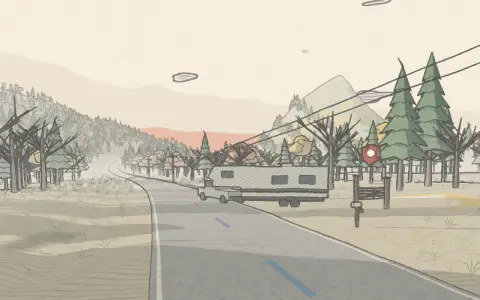
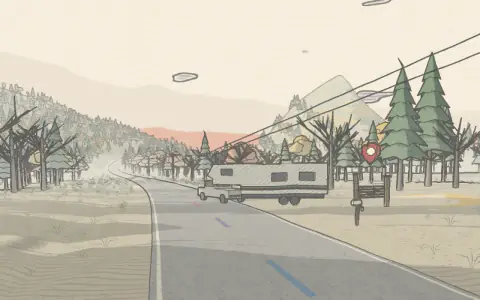
/road: the rig stays on the road, the truck runs on gas. Wear: apparel is coming soon
Chad's last fixes for /road, and the wear wording.

The rig sank into the road. The truck and the camper were drawn level at
the height of the road under the truck's middle, so on a hill the camper,
seven metres back, hung over the road going up and dipped into it going
down, by up to half a metre. Now both are set down on their wheels
(settle() in road/roadworld.js): the truck on its two axles, the camper
on its own axles and on the hitch in the truck's bed, so they tip with
the road. The ground beside the road is level with it from the edge out,
and there is a wide level patch wherever the rig stops, so pulling over
has no step in it either.

Checked with a new script (tools/rigcheck.mjs in the notes folder): the
whole drive in 5,000 steps, every wheel against the road and ground that
are drawn, at all three quality settings. Worst is 2.6 cm into the
surface.

- "fuel" and "diesel" are "gas": the stop's name, its address, its card.
- Wear: no apparel is listed yet, so the wear stop, the wear page and
  the about page say it is coming soon.
- The winter stop's main button is "watch the latest vlog" (the same
  ROAD_LATEST link as the vlog stop), with a smaller "subscribe on
  youtube" button under it.
- The camera comes across the road to the gate a little later at the
  end of the drive, so no pole passes close to it.
- Six still prints re-shot.

Not pushed.

diff --git a/road/roadworld.js b/road/roadworld.js
@@ -10,9 +10,9 @@ import * as shapes from "./shapes.js";
 import * as walkShapes from "../walk/mesh.js";
 import { INK } from "../walk/glsl.js";
 import { lightAt, MOON_DIR } from "./light.js";
-import { Printer, NEAR, FAR, rotY, local, angLerp } from "../walk/print.js";
+import { Printer, NEAR, FAR, rotY, local, angLerp, mTurnZ } from "../walk/print.js";
 
-export const STOP_IDS = ["leave", "vlog", "follow", "fuel", "winter", "home"];
+export const STOP_IDS = ["leave", "vlog", "follow", "gas", "winter", "home"];
 const P = land.PLACES, RZ = land.RIG_Z, LAST = STOP_IDS.length - 1;
 const SCREEN = 4, POST = 1.8, PUMP = 1.5, CUP = 1.25;       // how much bigger than life the roadside things are
 const HITCH = -1.7, NOSE = 3.65, AXLE = 5.4;                // the truck's bed (where the fifth wheel sits), the camper's nose, nose to axles
@@ -37,7 +37,7 @@ const VIEWS = [
   { look: [3, 6.4, 2.1], shift: [0.12, -0.2], shiftN: [0, -0.4] },                          // leaving: the rig swinging out of the gate
   { look: [3, 9.5, 6.4], lookN: [3, 10.5, 7.2], shift: [0.22, 0.04], shiftN: [0, 0.36] },   // the latest vlog: the rig under the big screen
   { look: [3, 5.6, 3.0], shift: [0.24, 0], shiftN: [0, 0.38] },                             // follow along: pulled up at the signpost
-  { look: [4.5, 7.6, 3.2], shift: [0.22, 0], shiftN: [0, 0.38] },                           // fuel: at the pump, under the cup
+  { look: [4.5, 7.6, 3.2], shift: [0.22, 0], shiftN: [0, 0.38] },                           // gas: at the pump, under the cup
   { look: [5.5, 10.75, 2.6], shift: [0.25, -0.04], shiftN: [0, 0.36] },                     // winter: camped by the water
   { look: [-1.5, 6.5, 2.2], shift: [0.22, -0.04], shiftN: [0, 0.34] },                      // home: turning back in at the gate
 ].map((v, k) => ({ ...v, cam: land.CAM[k] }));
@@ -53,8 +53,9 @@ function lane(z, dir, off = 0) {
   const hitch = local({ x: p[0], y: p[1], z: p[2], yaw }, [HITCH, 0, 0]), ax = onRoad(z + (AXLE - HITCH) * dir, d);
   return { x: p[0], y: p[1], z: p[2], yaw, cyaw: Math.atan2(-(hitch[2] - ax[2]), hitch[0] - ax[0]), park: 0 };
 }
-/** where the truck is and which way it and the fifth wheel point, at stop-progress u: { x, y, z, yaw, cyaw, park } */
-function rigAt(u) {
+/** where the truck is and which way it and the fifth wheel point, at stop-progress u: { x, y, z, yaw, cyaw, park }.
+    (y is only roughly the ground there. settle() is what sets the rig down on its wheels.) */
+export function rigAt(u) {
   if (u <= 4) {
     // heading south. it eases away from each stop and up to the next, and pulls over where it stops
     const k = Math.min(Math.floor(u), 3), r = lane(lerp(RZ[k], RZ[k + 1], ease(u - k)), 1);
@@ -84,6 +85,27 @@ function rigAt(u) {
   const yaw = from.yaw + Math.min(s, run) / R_GATE, on = arc([from.x, from.z], from.yaw, yaw, R_GATE), past = Math.max(s - run, 0);
   const x = on[0] + Math.cos(yaw) * past, z = on[1] - Math.sin(yaw) * past;
   return { x, y: land.height(x, z) + 0.05, z, yaw, cyaw: yaw - 0.8 * smooth(0, 0.45, g) * (1 - 0.22 * smooth(0.7, 1, g)), park: smooth(0.7, 1, g) };
+}
+
+/* ---------- setting the rig down on the road ---------- */
+const FRONT = 1.85, REAR = -1.9;                 // the truck's axles, ahead of and behind its middle (walk/mesh.js truck())
+const AXLES = 1.725, BACK = NOSE + AXLES;        // the camper's axles behind its own middle, and behind the hitch (walk/mesh.js camper())
+/** how high the surface is under a wheel at [x, z]: the road's own ribbon where the wheel is on the road, the ground where it is off it */
+export function surface(x, z) {
+  const d = land.lateral(x, z), off = smooth(land.HALF, land.HALF + 0.35, Math.abs(d));
+  return lerp(land.roadY(z - land.heading(z)[0] * d) + 0.07, land.height(x, z) + 0.01, off);
+}
+/** the rig, set down on its wheels: the truck on its two axles, the fifth wheel on its own axles and on the hitch in the truck's bed.
+    so on a hill both of them tip with the road, and neither one sinks into it or hangs over it. each is [x, y, z, yaw, tip]. */
+export function settle(rig) {
+  // an axle sits on whichever of its two wheels is on the higher ground (one can be on the road and the other on the shoulder)
+  const axle = (x, z, yaw, half) => { const sx = Math.sin(yaw) * half, sz = Math.cos(yaw) * half; return Math.max(surface(x + sx, z + sz), surface(x - sx, z - sz)); };
+  const F = [Math.cos(rig.yaw), -Math.sin(rig.yaw)];
+  const yF = axle(rig.x + F[0] * FRONT, rig.z + F[1] * FRONT, rig.yaw, 0.9), yR = axle(rig.x + F[0] * REAR, rig.z + F[1] * REAR, rig.yaw, 0.9);
+  const tip = Math.atan2(yF - yR, FRONT - REAR), y = yR + (yF - yR) * (-REAR / (FRONT - REAR));
+  const hx = rig.x + F[0] * HITCH, hz = rig.z + F[1] * HITCH, hy = y + HITCH * Math.sin(tip);            // the hitch rides up and down with the truck's bed
+  const C = [Math.cos(rig.cyaw), -Math.sin(rig.cyaw)], ya = axle(hx - C[0] * BACK, hz - C[1] * BACK, rig.cyaw, 1.13);
+  return { truck: [rig.x, y, rig.z, rig.yaw, tip], camper: [hx - C[0] * NOSE, ya + (hy - ya) * (AXLES / BACK), hz - C[1] * NOSE, rig.cyaw, Math.atan2(hy - ya, BACK)] };
 }
 
 export class RoadWorld extends Printer {
@@ -184,8 +206,8 @@ export class RoadWorld extends Printer {
     u = clamp(u, 0, LAST);
     const rig = (this.rig = rigAt(u)), n = Math.round(u), V = VIEWS[n], C = u > 4 ? CHASE_N : CHASE_S;
     // how much this is the stop's own view: 1 at the stop, 0 out on the road. leaving the camp it lets go fast, to get round
-    // behind the rig before the rig has turned round
-    const w = u > 4 && n === 4 ? 1 - smooth(0.015, TURN, u - 4) : 1 - smooth(0.06, 0.4, Math.abs(u - n));
+    // behind the rig before the rig has turned round. and it comes across the road to the gate late, once it is past the poles
+    const w = u > 4 && n === 4 ? 1 - smooth(0.015, TURN, u - 4) : n === 5 ? 1 - smooth(0.03, 0.2, 5 - u) : 1 - smooth(0.06, 0.4, Math.abs(u - n));
     const narrow = 1 - smooth(0.8, 1.25, aspect);
     const mix = (a, b) => [lerp(a[0], b[0], w), lerp(a[1], b[1], w), lerp(a[2], b[2], w)];
     const cm = mix(C.cam, V.cam), lk = mix(C.look, V.lookN && narrow > 0 ? v3.lerp(V.look, V.lookN, narrow) : V.look);
@@ -207,15 +229,14 @@ export class RoadWorld extends Printer {
   animate(u, time, L, dt, still) {
     const rig = this.rig, cam = this.cam;
     this.at = u;
-    // the fifth wheel hangs off the hitch in the truck's bed
-    const hitch = local({ x: rig.x, y: rig.y, z: rig.z, yaw: rig.yaw }, [HITCH, 0, 0]);
-    const cpos = [hitch[0] - Math.cos(rig.cyaw) * NOSE, rig.y, hitch[2] + Math.sin(rig.cyaw) * NOSE];
+    // both of them are set down on their wheels, so they tip with the road on the hills
+    const { truck: T, camper: K } = settle(rig), cpos = [K[0], K[1], K[2]];
     const bump = still ? 0 : Math.sin(time * 7.1) * 0.012 * (1 - rig.park) * smooth(0, 0.08, Math.abs(Math.sin(Math.PI * cam.f)))      // a little life in the springs while it rolls
                              + this.honk * Math.abs(Math.sin(time * 15)) * 0.24;                                                  // and a hop when you press it
-    rotY(this.truck.model, rig.x, rig.y + bump, rig.z, rig.yaw, 1);
-    rotY(this.camper.model, cpos[0], cpos[1] - 0.1 + bump * 0.6, cpos[2], rig.cyaw, 1);
+    mTurnZ(rotY(this.truck.model, T[0], T[1] + bump, T[2], T[3], 1), T[4]);
+    mTurnZ(rotY(this.camper.model, K[0], K[1] + bump * 0.6, K[2], K[3], 1), K[4]);
     this.trim.model.set(this.camper.model);
-    this.beam = [rig.x + Math.cos(rig.yaw) * 8, rig.y + 0.6, rig.z - Math.sin(rig.yaw) * 8];       // where the headlights land
+    this.beam = [rig.x + Math.cos(rig.yaw) * 8, T[1] + 0.6, rig.z - Math.sin(rig.yaw) * 8];        // where the headlights land
     this.hot.rig = [cpos[0], cpos[1] + 3.2, cpos[2]];
     this.hot.cup = spot("cup", 5.9 * CUP);
     this.hot.post = spot("signpost", 2.4 * POST);

diff --git a/wear/index.html b/wear/index.html
@@ -3,16 +3,16 @@
 <head>
 <meta charset="UTF-8">
 <meta name="viewport" content="width=device-width, initial-scale=1.0, viewport-fit=cover">
-<title>Wear: Handmade Jewelry + Apparel | Same Old Samsara</title>
-<meta name="description" content="Handmade beaded earrings and bracelets, and apparel we designed, by Same Old Samsara. Each piece is sold through our Etsy shop.">
+<title>Wear: Handmade Jewelry | Same Old Samsara</title>
+<meta name="description" content="Handmade beaded earrings and bracelets by Same Old Samsara. Each piece is sold through our Etsy shop. Apparel we designed is coming soon.">
 <meta name="robots" content="index, follow, max-image-preview:large">
 <meta name="google-site-verification" content="y7ndACI0Ppc_jZEAmxNFMrK5n-c8N7hskw8efVKoxJQ">
 <link rel="canonical" href="https://sameoldsamsara.xyz/wear/">
 <meta name="theme-color" content="#4f5232">
 <meta property="og:type" content="website">
 <meta property="og:site_name" content="Same Old Samsara">
-<meta property="og:title" content="Wear: Handmade Jewelry + Apparel | Same Old Samsara">
-<meta property="og:description" content="Handmade beaded earrings and bracelets, and apparel we designed, by Same Old Samsara. Each piece is sold through our Etsy shop.">
+<meta property="og:title" content="Wear: Handmade Jewelry | Same Old Samsara">
+<meta property="og:description" content="Handmade beaded earrings and bracelets by Same Old Samsara. Each piece is sold through our Etsy shop. Apparel we designed is coming soon.">
 <meta property="og:url" content="https://sameoldsamsara.xyz/wear/">
 <meta property="og:image" content="https://sameoldsamsara.xyz/images/shop/opossum.jpg">
 <meta name="twitter:card" content="summary_large_image">
@@ -28,7 +28,7 @@
 <link rel="stylesheet" href="../style.css?v=858d8099">
 <script>var R=document.documentElement;R.classList.add("js");setTimeout(function(){if(!window.SOS_READY)R.classList.remove("js");},3000);try{var t=localStorage.getItem("sos_theme");if(t==="night"||t==="day")R.dataset.theme=t;}catch(_){}var U=navigator.userAgent,A=/Instagram/.test(U)?"instagram":/FBAN|FBAV/.test(U)?"facebook":/musical_ly|Bytedance|TikTok/i.test(U)?"tiktok":/Pinterest/.test(U)?"pinterest":"";if(A)R.dataset.app=A;if(A==="pinterest"||/pinterest\./i.test(document.referrer))R.dataset.from="pin";</script>
 <style>:root{--ring-url:url("../images/ring-norules-pepper.svg");--mark-url:url("../images/mark-pepper.svg");}</style>
-<script type="application/ld+json">{"@context": "https://schema.org", "@type": "CollectionPage", "name": "Handmade jewelry and apparel by Same Old Samsara", "url": "https://sameoldsamsara.xyz/wear/", "isPartOf": {"@type": "WebSite", "name": "Same Old Samsara", "url": "https://sameoldsamsara.xyz/"}, "mainEntity": {"@type": "ItemList", "itemListElement": [{"@type": "ListItem", "position": 1, "name": "opossum earrings", "url": "https://www.etsy.com/listing/4448169054"}, {"@type": "ListItem", "position": 2, "name": "jellyfish earrings", "url": "https://www.etsy.com/listing/4448186827"}, {"@type": "ListItem", "position": 3, "name": "cream + olive fringe", "url": "https://www.etsy.com/listing/4426089724"}, {"@type": "ListItem", "position": 4, "name": "green stone + hex nut bracelet", "url": "https://www.etsy.com/listing/4448132656"}, {"@type": "ListItem", "position": 5, "name": "squid earrings", "url": "https://www.etsy.com/listing/4446242488"}, {"@type": "ListItem", "position": 6, "name": "rainbow fringe earrings", "url": "https://www.etsy.com/listing/4441796123"}, {"@type": "ListItem", "position": 7, "name": "alien head earrings", "url": "https://www.etsy.com/listing/4446213329"}, {"@type": "ListItem", "position": 8, "name": "monstera leaf huggies", "url": "https://www.etsy.com/listing/4438493438"}, {"@type": "ListItem", "position": 9, "name": "key huggie", "url": "https://www.etsy.com/listing/4440654558"}, {"@type": "ListItem", "position": 10, "name": "cream spiral rope bracelet", "url": "https://www.etsy.com/listing/4445038667"}, {"@type": "ListItem", "position": 11, "name": "wavy rainbow loom bracelet", "url": "https://www.etsy.com/listing/1698489768"}, {"@type": "ListItem", "position": 12, "name": "matte black bracelet", "url": "https://www.etsy.com/listing/4444516925"}]}}</script>
+<script type="application/ld+json">{"@context": "https://schema.org", "@type": "CollectionPage", "name": "Handmade jewelry by Same Old Samsara", "url": "https://sameoldsamsara.xyz/wear/", "isPartOf": {"@type": "WebSite", "name": "Same Old Samsara", "url": "https://sameoldsamsara.xyz/"}, "mainEntity": {"@type": "ItemList", "itemListElement": [{"@type": "ListItem", "position": 1, "name": "opossum earrings", "url": "https://www.etsy.com/listing/4448169054"}, {"@type": "ListItem", "position": 2, "name": "jellyfish earrings", "url": "https://www.etsy.com/listing/4448186827"}, {"@type": "ListItem", "position": 3, "name": "cream + olive fringe", "url": "https://www.etsy.com/listing/4426089724"}, {"@type": "ListItem", "position": 4, "name": "green stone + hex nut bracelet", "url": "https://www.etsy.com/listing/4448132656"}, {"@type": "ListItem", "position": 5, "name": "squid earrings", "url": "https://www.etsy.com/listing/4446242488"}, {"@type": "ListItem", "position": 6, "name": "rainbow fringe earrings", "url": "https://www.etsy.com/listing/4441796123"}, {"@type": "ListItem", "position": 7, "name": "alien head earrings", "url": "https://www.etsy.com/listing/4446213329"}, {"@type": "ListItem", "position": 8, "name": "monstera leaf huggies", "url": "https://www.etsy.com/listing/4438493438"}, {"@type": "ListItem", "position": 9, "name": "key huggie", "url": "https://www.etsy.com/listing/4440654558"}, {"@type": "ListItem", "position": 10, "name": "cream spiral rope bracelet", "url": "https://www.etsy.com/listing/4445038667"}, {"@type": "ListItem", "position": 11, "name": "wavy rainbow loom bracelet", "url": "https://www.etsy.com/listing/1698489768"}, {"@type": "ListItem", "position": 12, "name": "matte black bracelet", "url": "https://www.etsy.com/listing/4444516925"}]}}</script>
 </head>
 <body>
 <a class="skip" href="#main">skip to the good part</a>
@@ -38,8 +38,8 @@
   <button class="sky" type="button" aria-label="switch day or night" title="day or night"><span class="sun" aria-hidden="true"></span></button>
 </div></header>
 <main id="main"><section class="hero small"><div class="wrap hero-text">
-  <h1>wear</h1><p class="tag">jewelry made by hand, and apparel we designed.</p>
-  <p class="def">Earrings and bracelets Chad makes by hand, most of them one seed bead at a time, and apparel we designed. It all lives in our Etsy shop, where the prices, the sizes and the checkout are.</p>
+  <h1>wear</h1><p class="tag">jewelry made by hand. apparel coming soon.</p>
+  <p class="def">Earrings and bracelets Chad makes by hand, most of them one seed bead at a time. They live in our Etsy shop, where the prices, the sizes and the checkout are. Apparel we designed is coming soon.</p>
   <div class="btns center"><a class="btn solid" href="https://sameoldsamsara.etsy.com" target="_blank" rel="noopener">our etsy shop</a><a class="btn" href="https://depop.com/sameoldsamsara" target="_blank" rel="noopener">also on depop</a></div>
   <p class="label inapp">inside an app? youtube and etsy work better in your own browser. tap the ⋯ menu, then "open in browser".</p>
 </div></section>

diff --git a/road/index.html b/road/index.html
@@ -19,7 +19,7 @@
 <link rel="preconnect" href="https://fonts.googleapis.com">
 <link rel="preconnect" href="https://fonts.gstatic.com" crossorigin>
 <link rel="stylesheet" href="https://fonts.googleapis.com/css2?family=Press+Start+2P&family=VT323&family=Work+Sans:wght@400;500;600&display=swap">
-<link rel="stylesheet" href="../road/road.css?v=f9225bab">
+<link rel="stylesheet" href="../road/road.css?v=adfc7046">
 <script>(function(){var d=document.documentElement,q=location.search,gl=false,calm=false;try{gl=!!document.createElement("canvas").getContext("webgl2");calm=matchMedia("(prefers-reduced-motion: reduce)").matches;}catch(_){}var on=gl&&!/[?&]plain\b/.test(q)&&(!calm||/[?&]walk\b/.test(q));d.classList.add(on?"walk-on":"walk-plain");if(gl&&!on)d.classList.add("walk-can");if(on)setTimeout(function(){if(!window.SOS_WALK){d.classList.remove("walk-on");d.classList.add("walk-plain");}},8000);})();</script>
 <script type="application/ld+json">{"@context": "https://schema.org", "@type": "WebPage", "name": "Pneuma Nomads", "url": "https://sameoldsamsara.xyz/road/", "description": "Chad and Daniel's winter travel videos. Summers on our land in Central New York, winters in the fifth wheel following the warm air south.", "isPartOf": {"@type": "WebSite", "name": "Same Old Samsara", "url": "https://sameoldsamsara.xyz/"}, "sameAs": ["https://youtube.com/@pneumanomads", "https://instagram.com/pneumanomads", "https://tiktok.com/@pneumanomads"]}</script>
 </head>
@@ -34,7 +34,7 @@
 <nav class="trail" aria-label="stops on the road"><div class="trail-in">
   <ol id="trail-list">
     <li><a href="#walk" data-go="0"><i aria-hidden="true"></i><span>leaving</span></a></li>
-    <li><a href="#stop-vlog" data-go="1"><i aria-hidden="true"></i><span>the latest vlog</span></a></li><li><a href="#stop-follow" data-go="2"><i aria-hidden="true"></i><span>follow along</span></a></li><li><a href="#stop-fuel" data-go="3"><i aria-hidden="true"></i><span>fuel</span></a></li><li><a href="#stop-winter" data-go="4"><i aria-hidden="true"></i><span>winter</span></a></li><li><a href="#stop-home" data-go="5"><i aria-hidden="true"></i><span>home again</span></a></li>
+    <li><a href="#stop-vlog" data-go="1"><i aria-hidden="true"></i><span>the latest vlog</span></a></li><li><a href="#stop-follow" data-go="2"><i aria-hidden="true"></i><span>follow along</span></a></li><li><a href="#stop-gas" data-go="3"><i aria-hidden="true"></i><span>gas</span></a></li><li><a href="#stop-winter" data-go="4"><i aria-hidden="true"></i><span>winter</span></a></li><li><a href="#stop-home" data-go="5"><i aria-hidden="true"></i><span>home again</span></a></li>
   </ol>
 </div></nav>
 <div class="walk-view">
@@ -86,13 +86,13 @@
       </div>
     </div>
   </article>
-  <article class="stop left" id="stop-fuel" data-stop="3">
-    <picture><source type="image/webp" media="(max-width: 760px)" srcset="../images/r/road/3-fuel-480.webp 480w, ../images/r/road/3-fuel-600.webp 600w" sizes="330px"><source type="image/webp" srcset="../images/r/road/3-fuel-720.webp 720w, ../images/road/3-fuel.webp 1280w" sizes="620px"><img class="still" src="../images/road/3-fuel.webp" alt="A print of the truck and camper pulled in at an old red gas pump with a lit globe, under a giant coffee cup on a pole, with the afternoon sun behind them." width="1280" height="800" loading="lazy" decoding="async"></picture>
+  <article class="stop left" id="stop-gas" data-stop="3">
+    <picture><source type="image/webp" media="(max-width: 760px)" srcset="../images/r/road/3-gas-480.webp 480w, ../images/r/road/3-gas-600.webp 600w" sizes="330px"><source type="image/webp" srcset="../images/r/road/3-gas-720.webp 720w, ../images/road/3-gas.webp 1280w" sizes="620px"><img class="still" src="../images/road/3-gas.webp" alt="A print of the truck and camper pulled in at an old red gas pump with a lit globe, under a giant coffee cup on a pole, with the afternoon sun behind them." width="1280" height="800" loading="lazy" decoding="async"></picture>
     <div class="card">
       <div class="bar"><span>log 3 of 5</span><span>last gas · afternoon</span></div>
       <div class="in">
-        <h2>fuel</h2>
-        <p>The truck runs on diesel. We run on coffee. If the videos are worth a cup to you, here's the jar.</p>
+        <h2>gas</h2>
+        <p>The truck runs on gas. We run on coffee. If the videos are worth a cup to you, here's the jar.</p>
         <div class="btns"><a class="btn solid" href="https://buymeacoffee.com/sameoldsamsara" target="_blank" rel="noopener">buy us a coffee</a></div>
       </div>
     </div>
@@ -104,7 +104,7 @@
       <div class="in">
         <h2>winter</h2>
         <p>This is the warm air we were following. We park by the water, film all winter and post as we go.</p>
-        <div class="btns"><a class="btn solid" href="https://youtube.com/@pneumanomads?sub_confirmation=1" target="_blank" rel="noopener">subscribe on youtube</a></div>
+        <div class="btns stack"><a class="btn solid" href="https://www.youtube.com/watch?v=NMxLh7pHhDY" target="_blank" rel="noopener">watch the latest vlog</a><a class="btn small" href="https://youtube.com/@pneumanomads?sub_confirmation=1" target="_blank" rel="noopener">subscribe on youtube</a></div>
       </div>
     </div>
   </article>

diff --git a/road/land.js b/road/land.js
@@ -62,7 +62,11 @@ export const PLACES = {
   north: [5.8, -1634],         // the sign that points back up the road
 };
 const ROOM = { screen: 12 };                                               // how far the trees stand back from a thing (7.5 if not said)
-const PADS = Object.entries(PLACES).map(([name, [d, z]]) => [...beside(z, d), d, z, ROOM[name] || 7.5]);
+/* a patch of ground at the road's own level under each thing: [x, z, d, z, how far the trees stand back, level out to here, back to the country by here] */
+const PADS = Object.entries(PLACES).map(([name, [d, z]]) => [...beside(z, d), d, z, ROOM[name] || 7.5, 4.5, 9]);
+/* and a wide one under the whole rig wherever it stops, centred on its middle, so every wheel is on level ground while it pulls in and out */
+/* (the one at the camp is wider still: the rig swings right round on the sand there) */
+for (const [d, z, r = 9.5] of [[6, -48], by(1, -4, 5.6), by(2, -4, 5.4), by(3, -4, 7.6), [8.5, RIG_Z[4] - 1, 12.5], [5.5, -46]]) PADS.push([...beside(z, d), d, z, 0, r, r + 5]);
 const segDist = (x, z, ax, az, bx, bz) => { const dx = bx - ax, dz = bz - az, t = clamp(((x - ax) * dx + (z - az) * dz) / (dx * dx + dz * dz), 0, 1); return Math.hypot(x - ax - dx * t, z - az - dz * t); };
 /* nothing is planted between where you stand at a stop and what you look at there: [stop, place, how wide a lane to keep clear] */
 const SIGHT = [[0, "park0", 7], [0, "gate", 6], [1, "screen", 10], [1, "park1", 6], [2, "signpost", 6], [2, "park2", 6], [3, "cup", 7], [3, "pump", 5], [3, "park3", 6],
@@ -90,17 +94,21 @@ function raw(x, z) {
   const gulf = d > 0 ? -smooth(9, 30, d) * (ry - WATER_Y + 1.6) + roll * 0.8 * off * (1 - smooth(9, 22, d))
                      : roll * 3.2 * off + 2.2 * smooth(30, 90, a) * far;
   let h = ry + north * w[0] + hills * w[1] + pines * w[2] + gulf * w[3];
-  h -= 0.42 * smooth(4.4, 6.4, a) * (1 - smooth(6.4, 10.5, a)) * (1 - w[3] * (d > 0 ? 1 : 0));       // a shallow ditch off each shoulder
+  if (d < 0) h -= 0.42 * smooth(4.4, 6.4, a) * (1 - smooth(6.4, 10.5, a));       // a shallow ditch off the left shoulder. the right one is kept level: the rig pulls over onto it
   return h;
 }
-/** the finished ground: the country, with the road benched into it and a level patch under each thing that stands by it */
+/** the finished ground: the country, with the road benched into it and a patch at the road's own level under each thing that
+    stands by it. "the road's level" is its height straight across from the spot, so the shoulder and the patches rise and fall
+    with the road. under the road the ground is a little below the road's surface, and from the edge out it comes up flush with it,
+    so there is no step for the rig to drop off when it pulls over (road/roadworld.js surface() counts on this). */
 export function height(x, z) {
   let h = raw(x, z);
-  const a = Math.abs(lateral(x, z));
-  if (a < 6.5) h = lerp(roadY(z), h, smooth(HALF + 0.5, 6.5, a));
+  const d = lateral(x, z), a = Math.abs(d), flush = roadY(z - heading(z)[0] * d) + 0.06 * smooth(HALF, 5.4, a);
+  // the shoulder. the right one is wide: that is the side the rig pulls over onto
+  h = lerp(flush, h, d > 0 ? smooth(6, 9, a) : smooth(HALF + 0.5, 6.5, a));
   for (const p of PADS) {
     const dd = Math.hypot(x - p[0], z - p[1]);
-    if (dd < 9) h = lerp(roadY(p[3]) - 0.05, h, smooth(4.5, 9, dd));
+    if (dd < p[6]) h = lerp(flush, h, smooth(p[5], p[6], dd));
   }
   return h;
 }

diff --git a/ig/index.html b/ig/index.html
@@ -96,7 +96,7 @@
     <div class="card"><span class="was" id="wear"></span>
       <p class="label where"><span>stop 3 of 8</span><span class="light">noon</span></p>
       <h2>wear</h2>
-      <p>We have an Etsy shop with the jewelry we make by hand and the apparel we designed. The earrings don't really grow on the apple tree. We checked.</p>
+      <p>We have an Etsy shop with the jewelry we make by hand. Apparel we designed is coming soon. The earrings don't really grow on the apple tree. We checked.</p>
       <div class="wear-row"><a href="https://www.etsy.com/listing/4448169054" target="_blank" rel="noopener" title="opossum earrings"><picture><source type="image/webp" srcset="../images/r/shop/opossum-240.webp 240w" sizes="(max-width: 760px) 84px, 84px"><img src="../images/shop/opossum.jpg" alt="opossum earrings" width="600" height="600" loading="lazy" decoding="async"></picture></a><a href="https://www.etsy.com/listing/4448186827" target="_blank" rel="noopener" title="jellyfish earrings"><picture><source type="image/webp" srcset="../images/r/shop/jellyfish-240.webp 240w" sizes="(max-width: 760px) 84px, 84px"><img src="../images/shop/jellyfish.jpg" alt="jellyfish earrings" width="600" height="600" loading="lazy" decoding="async"></picture></a><a href="https://www.etsy.com/listing/4426089724" target="_blank" rel="noopener" title="cream + olive fringe"><picture><source type="image/webp" srcset="../images/r/shop/cream-olive-240.webp 240w" sizes="(max-width: 760px) 84px, 84px"><img src="../images/shop/cream-olive.jpg" alt="cream + olive fringe" width="600" height="600" loading="lazy" decoding="async"></picture></a><a href="https://www.etsy.com/listing/4448132656" target="_blank" rel="noopener" title="green stone + hex nut bracelet"><picture><source type="image/webp" srcset="../images/r/shop/green-stone-240.webp 240w" sizes="(max-width: 760px) 84px, 84px"><img src="../images/shop/green-stone.jpg" alt="green stone + hex nut bracelet" width="600" height="600" loading="lazy" decoding="async"></picture></a></div>
       <div class="btns"><a class="btn solid" href="../wear/">see the jewelry</a><a class="btn" href="https://sameoldsamsara.etsy.com" target="_blank" rel="noopener">our etsy shop</a><a class="btn" href="https://depop.com/sameoldsamsara" target="_blank" rel="noopener">also on depop</a></div>
     </div>

diff --git a/pin/index.html b/pin/index.html
@@ -96,7 +96,7 @@
     <div class="card"><span class="was" id="wear"></span>
       <p class="label where"><span>stop 3 of 8</span><span class="light">noon</span></p>
       <h2>wear</h2>
-      <p>We have an Etsy shop with the jewelry we make by hand and the apparel we designed. The earrings don't really grow on the apple tree. We checked.</p>
+      <p>We have an Etsy shop with the jewelry we make by hand. Apparel we designed is coming soon. The earrings don't really grow on the apple tree. We checked.</p>
       <div class="wear-row"><a href="https://www.etsy.com/listing/4448169054" target="_blank" rel="noopener" title="opossum earrings"><picture><source type="image/webp" srcset="../images/r/shop/opossum-240.webp 240w" sizes="(max-width: 760px) 84px, 84px"><img src="../images/shop/opossum.jpg" alt="opossum earrings" width="600" height="600" loading="lazy" decoding="async"></picture></a><a href="https://www.etsy.com/listing/4448186827" target="_blank" rel="noopener" title="jellyfish earrings"><picture><source type="image/webp" srcset="../images/r/shop/jellyfish-240.webp 240w" sizes="(max-width: 760px) 84px, 84px"><img src="../images/shop/jellyfish.jpg" alt="jellyfish earrings" width="600" height="600" loading="lazy" decoding="async"></picture></a><a href="https://www.etsy.com/listing/4426089724" target="_blank" rel="noopener" title="cream + olive fringe"><picture><source type="image/webp" srcset="../images/r/shop/cream-olive-240.webp 240w" sizes="(max-width: 760px) 84px, 84px"><img src="../images/shop/cream-olive.jpg" alt="cream + olive fringe" width="600" height="600" loading="lazy" decoding="async"></picture></a><a href="https://www.etsy.com/listing/4448132656" target="_blank" rel="noopener" title="green stone + hex nut bracelet"><picture><source type="image/webp" srcset="../images/r/shop/green-stone-240.webp 240w" sizes="(max-width: 760px) 84px, 84px"><img src="../images/shop/green-stone.jpg" alt="green stone + hex nut bracelet" width="600" height="600" loading="lazy" decoding="async"></picture></a></div>
       <div class="btns"><a class="btn solid" href="../wear/">see the jewelry</a><a class="btn" href="https://sameoldsamsara.etsy.com" target="_blank" rel="noopener">our etsy shop</a><a class="btn" href="https://depop.com/sameoldsamsara" target="_blank" rel="noopener">also on depop</a></div>
     </div>

diff --git a/yt/index.html b/yt/index.html
@@ -96,7 +96,7 @@
     <div class="card"><span class="was" id="wear"></span>
       <p class="label where"><span>stop 3 of 8</span><span class="light">noon</span></p>
       <h2>wear</h2>
-      <p>We have an Etsy shop with the jewelry we make by hand and the apparel we designed. The earrings don't really grow on the apple tree. We checked.</p>
+      <p>We have an Etsy shop with the jewelry we make by hand. Apparel we designed is coming soon. The earrings don't really grow on the apple tree. We checked.</p>
       <div class="wear-row"><a href="https://www.etsy.com/listing/4448169054" target="_blank" rel="noopener" title="opossum earrings"><picture><source type="image/webp" srcset="../images/r/shop/opossum-240.webp 240w" sizes="(max-width: 760px) 84px, 84px"><img src="../images/shop/opossum.jpg" alt="opossum earrings" width="600" height="600" loading="lazy" decoding="async"></picture></a><a href="https://www.etsy.com/listing/4448186827" target="_blank" rel="noopener" title="jellyfish earrings"><picture><source type="image/webp" srcset="../images/r/shop/jellyfish-240.webp 240w" sizes="(max-width: 760px) 84px, 84px"><img src="../images/shop/jellyfish.jpg" alt="jellyfish earrings" width="600" height="600" loading="lazy" decoding="async"></picture></a><a href="https://www.etsy.com/listing/4426089724" target="_blank" rel="noopener" title="cream + olive fringe"><picture><source type="image/webp" srcset="../images/r/shop/cream-olive-240.webp 240w" sizes="(max-width: 760px) 84px, 84px"><img src="../images/shop/cream-olive.jpg" alt="cream + olive fringe" width="600" height="600" loading="lazy" decoding="async"></picture></a><a href="https://www.etsy.com/listing/4448132656" target="_blank" rel="noopener" title="green stone + hex nut bracelet"><picture><source type="image/webp" srcset="../images/r/shop/green-stone-240.webp 240w" sizes="(max-width: 760px) 84px, 84px"><img src="../images/shop/green-stone.jpg" alt="green stone + hex nut bracelet" width="600" height="600" loading="lazy" decoding="async"></picture></a></div>
       <div class="btns"><a class="btn solid" href="../wear/">see the jewelry</a><a class="btn" href="https://sameoldsamsara.etsy.com" target="_blank" rel="noopener">our etsy shop</a><a class="btn" href="https://depop.com/sameoldsamsara" target="_blank" rel="noopener">also on depop</a></div>
     </div>

diff --git a/index.html b/index.html
@@ -99,7 +99,7 @@
     <div class="card"><span class="was" id="wear"></span>
       <p class="label where"><span>stop 3 of 8</span><span class="light">noon</span></p>
       <h2>wear</h2>
-      <p>We have an Etsy shop with the jewelry we make by hand and the apparel we designed. The earrings don't really grow on the apple tree. We checked.</p>
+      <p>We have an Etsy shop with the jewelry we make by hand. Apparel we designed is coming soon. The earrings don't really grow on the apple tree. We checked.</p>
       <div class="wear-row"><a href="https://www.etsy.com/listing/4448169054" target="_blank" rel="noopener" title="opossum earrings"><picture><source type="image/webp" srcset="images/r/shop/opossum-240.webp 240w" sizes="(max-width: 760px) 84px, 84px"><img src="images/shop/opossum.jpg" alt="opossum earrings" width="600" height="600" loading="lazy" decoding="async"></picture></a><a href="https://www.etsy.com/listing/4448186827" target="_blank" rel="noopener" title="jellyfish earrings"><picture><source type="image/webp" srcset="images/r/shop/jellyfish-240.webp 240w" sizes="(max-width: 760px) 84px, 84px"><img src="images/shop/jellyfish.jpg" alt="jellyfish earrings" width="600" height="600" loading="lazy" decoding="async"></picture></a><a href="https://www.etsy.com/listing/4426089724" target="_blank" rel="noopener" title="cream + olive fringe"><picture><source type="image/webp" srcset="images/r/shop/cream-olive-240.webp 240w" sizes="(max-width: 760px) 84px, 84px"><img src="images/shop/cream-olive.jpg" alt="cream + olive fringe" width="600" height="600" loading="lazy" decoding="async"></picture></a><a href="https://www.etsy.com/listing/4448132656" target="_blank" rel="noopener" title="green stone + hex nut bracelet"><picture><source type="image/webp" srcset="images/r/shop/green-stone-240.webp 240w" sizes="(max-width: 760px) 84px, 84px"><img src="images/shop/green-stone.jpg" alt="green stone + hex nut bracelet" width="600" height="600" loading="lazy" decoding="async"></picture></a></div>
       <div class="btns"><a class="btn solid" href="wear/">see the jewelry</a><a class="btn" href="https://sameoldsamsara.etsy.com" target="_blank" rel="noopener">our etsy shop</a><a class="btn" href="https://depop.com/sameoldsamsara" target="_blank" rel="noopener">also on depop</a></div>
     </div>

diff --git a/about/index.html b/about/index.html
@@ -48,7 +48,7 @@
   <h2>what's here</h2>
   <ul>
     <li><a href="../films/">Films</a>: the documentary, a season a year on <a href="https://www.youtube.com/@sameoldsamsara" target="_blank" rel="noopener">YouTube</a>.</li>
-    <li><a href="../wear/">Wear</a>: beaded earrings and bracelets made by hand, and apparel we designed, sold through our Etsy shop.</li>
+    <li><a href="../wear/">Wear</a>: beaded earrings and bracelets made by hand, sold through our Etsy shop. Apparel we designed is coming soon.</li>
     <li><a href="../patterns/">Beading patterns</a>: brick stitch and bead loom PDFs. A few are free, the rest are in Samsara Digitals, our pattern shop on Etsy.</li>
     <li><a href="../bead-lab/">The bead lab</a>: a free tool to design your own brick stitch pattern.</li>
     <li><a href="../field-guide/">The field guide</a>: the animals, plants and mushrooms we've found on the land so far.</li>

diff --git a/road/road.css b/road/road.css
@@ -48,6 +48,9 @@ header.top { position: sticky; top: 0; z-index: 8; height: 46px; display: flex; 
 .btn.solid { background: var(--pepper); color: var(--cream); }
 .btn:hover, .btn:focus-visible { background: var(--sand); color: var(--pepper); }
 .btn.solid:hover, .btn.solid:focus-visible { background: var(--night); color: var(--cream); }
+/* one under the other, the second one smaller (it is still 44 tall to tap) */
+.btns.stack { flex-direction: column; align-items: flex-start; }
+.btn.small { font-size: 19px; padding-inline: 11px; border-width: 1.5px; }
 
 /* ---------- the cards: one log entry each ---------- */
 .card { position: relative; background: var(--paper); color: var(--pepper); border: 2px solid var(--night); box-shadow: 6px 6px 0 var(--block); }

diff --git a/_build/build.py b/_build/build.py
@@ -762,7 +762,7 @@ def walk_stops(base):
                   + (loc("recipes", "recipes/") if len(RECIPES) >= 3 else "")},
         {"id": "wear", "name": "wear", "light": "noon", "side": "left", "was": "wear",
          "alt": "A print of an old apple tree in a meadow with strands of bright beads hanging from its branches, and a raven on top.",
-         "body": f"""<p>We have an Etsy shop with the jewelry we make by hand and the apparel we designed. The earrings don't really grow on the apple tree. We checked.</p>
+         "body": f"""<p>We have an Etsy shop with the jewelry we make by hand. Apparel we designed is coming soon. The earrings don't really grow on the apple tree. We checked.</p>
       <div class="wear-row">{wear}</div>""",
          "links": loc("see the jewelry", "wear/", True) + ext("our etsy shop", SHOP) + ext("also on depop", DEPOP)},
         {"id": "land", "name": "the land", "light": "golden hour", "side": "left",
@@ -1122,16 +1122,18 @@ def fieldguide_page():
                 extra_js=f'<script src="{base}js/fieldguide.js?v={ver("js/fieldguide.js")}" defer></script>')
 
 def wear_page():
-    """the wear stop's page: the jewelry (and the apparel, once its listings are added to JEWELRY). each piece opens its own Etsy listing."""
+    """the wear stop's page: the jewelry. each piece opens its own Etsy listing.
+    no apparel is listed yet (Nov 12: a shirt is coming with the Etsy overhaul), so the page says "coming soon" and claims nothing more.
+    when it is listed: add it to JEWELRY and take the "coming soon" lines out here, in walk_stops() and in about_page()."""
     base = "../"
     cards = "".join(f"""<a class="wcard reveal" href="{listing(p['id'])}" target="_blank" rel="noopener">
       {pic(base, p['img'], p['alt'], (170, 260))}<div><h3>{e(p['name'])}</h3><span class="label">{e(p['kind'])}</span></div></a>""" for p in JEWELRY)
-    ld = [{"@context": "https://schema.org", "@type": "CollectionPage", "name": "Handmade jewelry and apparel by Same Old Samsara", "url": SITE + "/wear/",
+    ld = [{"@context": "https://schema.org", "@type": "CollectionPage", "name": "Handmade jewelry by Same Old Samsara", "url": SITE + "/wear/",
            "isPartOf": {"@type": "WebSite", "name": "Same Old Samsara", "url": SITE + "/"},
            "mainEntity": {"@type": "ItemList", "itemListElement": [{"@type": "ListItem", "position": i + 1, "name": p["name"], "url": listing(p["id"])} for i, p in enumerate(JEWELRY)]}}]
     body = f"""<section class="hero small"><div class="wrap hero-text">
-  <h1>wear</h1><p class="tag">jewelry made by hand, and apparel we designed.</p>
-  <p class="def">Earrings and bracelets Chad makes by hand, most of them one seed bead at a time, and apparel we designed. It all lives in our Etsy shop, where the prices, the sizes and the checkout are.</p>
+  <h1>wear</h1><p class="tag">jewelry made by hand. apparel coming soon.</p>
+  <p class="def">Earrings and bracelets Chad makes by hand, most of them one seed bead at a time. They live in our Etsy shop, where the prices, the sizes and the checkout are. Apparel we designed is coming soon.</p>
   <div class="btns center"><a class="btn solid" href="{SHOP}" target="_blank" rel="noopener">our etsy shop</a><a class="btn" href="{DEPOP}" target="_blank" rel="noopener">also on depop</a></div>
   {inapp_tip()}
 </div></section>
@@ -1139,8 +1141,8 @@ def wear_page():
   <div class="wgrid">{cards}</div>
   <div class="note reveal"><p><strong>Rather make your own?</strong> The <a href="{base}patterns/">beading patterns</a> are here too, and a few are free.</p></div>
 </div></section>"""
-    return page("Wear: Handmade Jewelry + Apparel | Same Old Samsara",
-                "Handmade beaded earrings and bracelets, and apparel we designed, by Same Old Samsara. Each piece is sold through our Etsy shop.",
+    return page("Wear: Handmade Jewelry | Same Old Samsara",
+                "Handmade beaded earrings and bracelets by Same Old Samsara. Each piece is sold through our Etsy shop. Apparel we designed is coming soon.",
                 base, "wear/", body, here="wear/", jsonld=ld, image=f"{SITE}/{JEWELRY[0]['img']}")
 
 def say_hi_page():
@@ -1180,7 +1182,7 @@ def about_page():
   <h2>what's here</h2>
   <ul>
     <li><a href="{base}films/">Films</a>: the documentary, a season a year on <a href="{YT}" target="_blank" rel="noopener">YouTube</a>.</li>
-    <li><a href="{base}wear/">Wear</a>: beaded earrings and bracelets made by hand, and apparel we designed, sold through our Etsy shop.</li>
+    <li><a href="{base}wear/">Wear</a>: beaded earrings and bracelets made by hand, sold through our Etsy shop. Apparel we designed is coming soon.</li>
     <li><a href="{base}patterns/">Beading patterns</a>: brick stitch and bead loom PDFs. A few are free, the rest are in Samsara Digitals, our pattern shop on Etsy.</li>
     <li><a href="{base}bead-lab/">The bead lab</a>: a free tool to design your own brick stitch pattern.</li>
     <li><a href="{base}field-guide/">The field guide</a>: the animals, plants and mushrooms we've found on the land so far.</li>
@@ -1235,14 +1237,17 @@ def road_page():
          "body": f"""<p>Four signs, four ways to come along. The long videos go up on YouTube first.</p>
         <div class="links">{rows}</div>""",
          "links": ""},
-        {"id": "fuel", "name": "fuel", "where": "last gas · afternoon", "side": "left",
+        {"id": "gas", "name": "gas", "where": "last gas · afternoon", "side": "left",
          "alt": "A print of the truck and camper pulled in at an old red gas pump with a lit globe, under a giant coffee cup on a pole, with the afternoon sun behind them.",
-         "body": "<p>The truck runs on diesel. We run on coffee. If the videos are worth a cup to you, here's the jar.</p>",
+         "body": "<p>The truck runs on gas. We run on coffee. If the videos are worth a cup to you, here's the jar.</p>",
          "links": ext("buy us a coffee", PN_COFFEE, True)},
         {"id": "winter", "name": "winter", "where": "the water · sunset", "side": "left",
          "alt": "A print of the truck and camper parked by the water at sunset, with two camp chairs facing the sun, palm trees, and a small road sign with a house on it.",
          "body": "<p>This is the warm air we were following. We park by the water, film all winter and post as we go.</p>",
-         "links": ext("subscribe on youtube", f"{PN_YT}?sub_confirmation=1", True)},
+         # the main button is the newest vlog (the same ROAD_LATEST link as the vlog stop), with a smaller subscribe button under it
+         "stack": True,
+         "links": ext("watch the latest vlog", vlog_url, True)
+                  + f'<a class="btn small" href="{PN_YT}?sub_confirmation=1" target="_blank" rel="noopener">subscribe on youtube</a>'},
         {"id": "home", "name": "home again", "where": "the gate · first light", "side": "left",
          "alt": "A print of the truck and camper turning in at an open wooden gate at first light in spring, with a mailbox by the road and a map pin floating over the gate.",
          "body": "<p>Come spring we drive it all back. Summers we're home on 34 acres in Central New York, building a homestead and filming it. That half is called Same Old Samsara, and it starts right here at the gate.</p>",
@@ -1250,6 +1255,8 @@ def road_page():
     ]
     still = lambda n, sid, alt, lazy=True: pic(base, f"images/road/{n}-{sid}.webp", alt, (330, 620), cls="still", lazy=lazy)
     trail = "".join(f'<li><a href="#stop-{st["id"]}" data-go="{i}"><i aria-hidden="true"></i><span>{e(st["name"])}</span></a></li>' for i, st in enumerate(stops, 1))
+    # a stop's buttons. "stack" puts them one under the other (the winter stop: the vlog, then a smaller subscribe button)
+    btns = lambda st: ('<div class="btns' + (" stack" if st.get("stack") else "") + '">' + st["links"] + "</div>") if st["links"] else ""
     cards = "".join(f"""
   <article class="stop {st['side']}" id="stop-{st['id']}" data-stop="{i}">
     {still(i, st['id'], st['alt'])}
@@ -1258,7 +1265,7 @@ def road_page():
       <div class="in">
         <h2>{e(st['name'])}</h2>
         {st['body']}
-        {f'<div class="btns">{st["links"]}</div>' if st['links'] else ''}
+        {btns(st)}
       </div>
     </div>
   </article>""" for i, st in enumerate(stops, 1))

diff --git a/_build/README.md b/_build/README.md
@@ -66,11 +66,12 @@ The top of the home page is a loop trail you scroll along, drawn like a woodcut.
 
 ## the road (/road, the Pneuma Nomads page)
 
-/road is a drive you scroll, in the Pneuma Nomads look (retro computer travel log). You ride along with the truck and the fifth wheel on a made up road: no real route, no real place. It is a loop. Six stops: leaving (out of the land's gate), the latest vlog, follow along, fuel, winter (the camp by the water), and home again (back in at the same gate, in spring). The last card's main button goes to the home page, where the walk starts at that gate. The walk's last stop goes to /road. So the two pages make one circle.
+/road is a drive you scroll, in the Pneuma Nomads look (retro computer travel log). You ride along with the truck and the fifth wheel on a made up road: no real route, no real place. It is a loop. Six stops: leaving (out of the land's gate), the latest vlog, follow along, gas, winter (the camp by the water), and home again (back in at the same gate, in spring). The last card's main button goes to the home page, where the walk starts at that gate. The walk's last stop goes to /road. So the two pages make one circle.
 
 - **The page's words and links:** `road_page()` in `build.py`. The look is `road/road.css` (the page does not load `style.css`).
 - **The 3D:** `road/roadworld.js` (the scene: where the rig is, where the camera rides), `road/land.js` (the road and where things stand), `road/shapes.js` (the screen, signpost, pump, cup), `road/light.js` (first light, sunset at the water, the night drive home, first light again, in the Pneuma Nomads colors).
 - **Move a stop:** `RIG_Z` in `road/land.js` is where the truck stops, `CAM` is where the camera stands there, `PLACES` is what's beside it. Keep the stop ids in `road_page()` and `STOP_IDS` in `road/roadworld.js` in step.
+- **After any change to the road, the ground or where the rig goes, check that the rig still sits on the road:** `node "../redesign-3d-b-2026-11/tools/rigcheck.mjs" .` It measures every wheel against the road for the whole drive and says how far any of them is sunk or floating. (The rig is set down on its wheels by `settle()` in `road/roadworld.js`, so it tips with the hills.)
 - **It shares the walk's engine.** `walk/print.js` draws both, and `walk/walk.js` drives both (the page names its scene in `data-scene`). A change to either of those two files changes both pages, so look at both after.
 - **A new vlog needs nothing extra** past `ROAD_LATEST` and the thumbnail: the screen in the 3D reads them. The still print of that stop shows a plain Pneuma Nomads card on the screen on purpose, so it never shows an old vlog.
 - **Preview:** http://127.0.0.1:8811/road/ . `?plain` and `?u=2` work here too. The 3D on its own: `_build/walk-dev.html?scene=road`.
